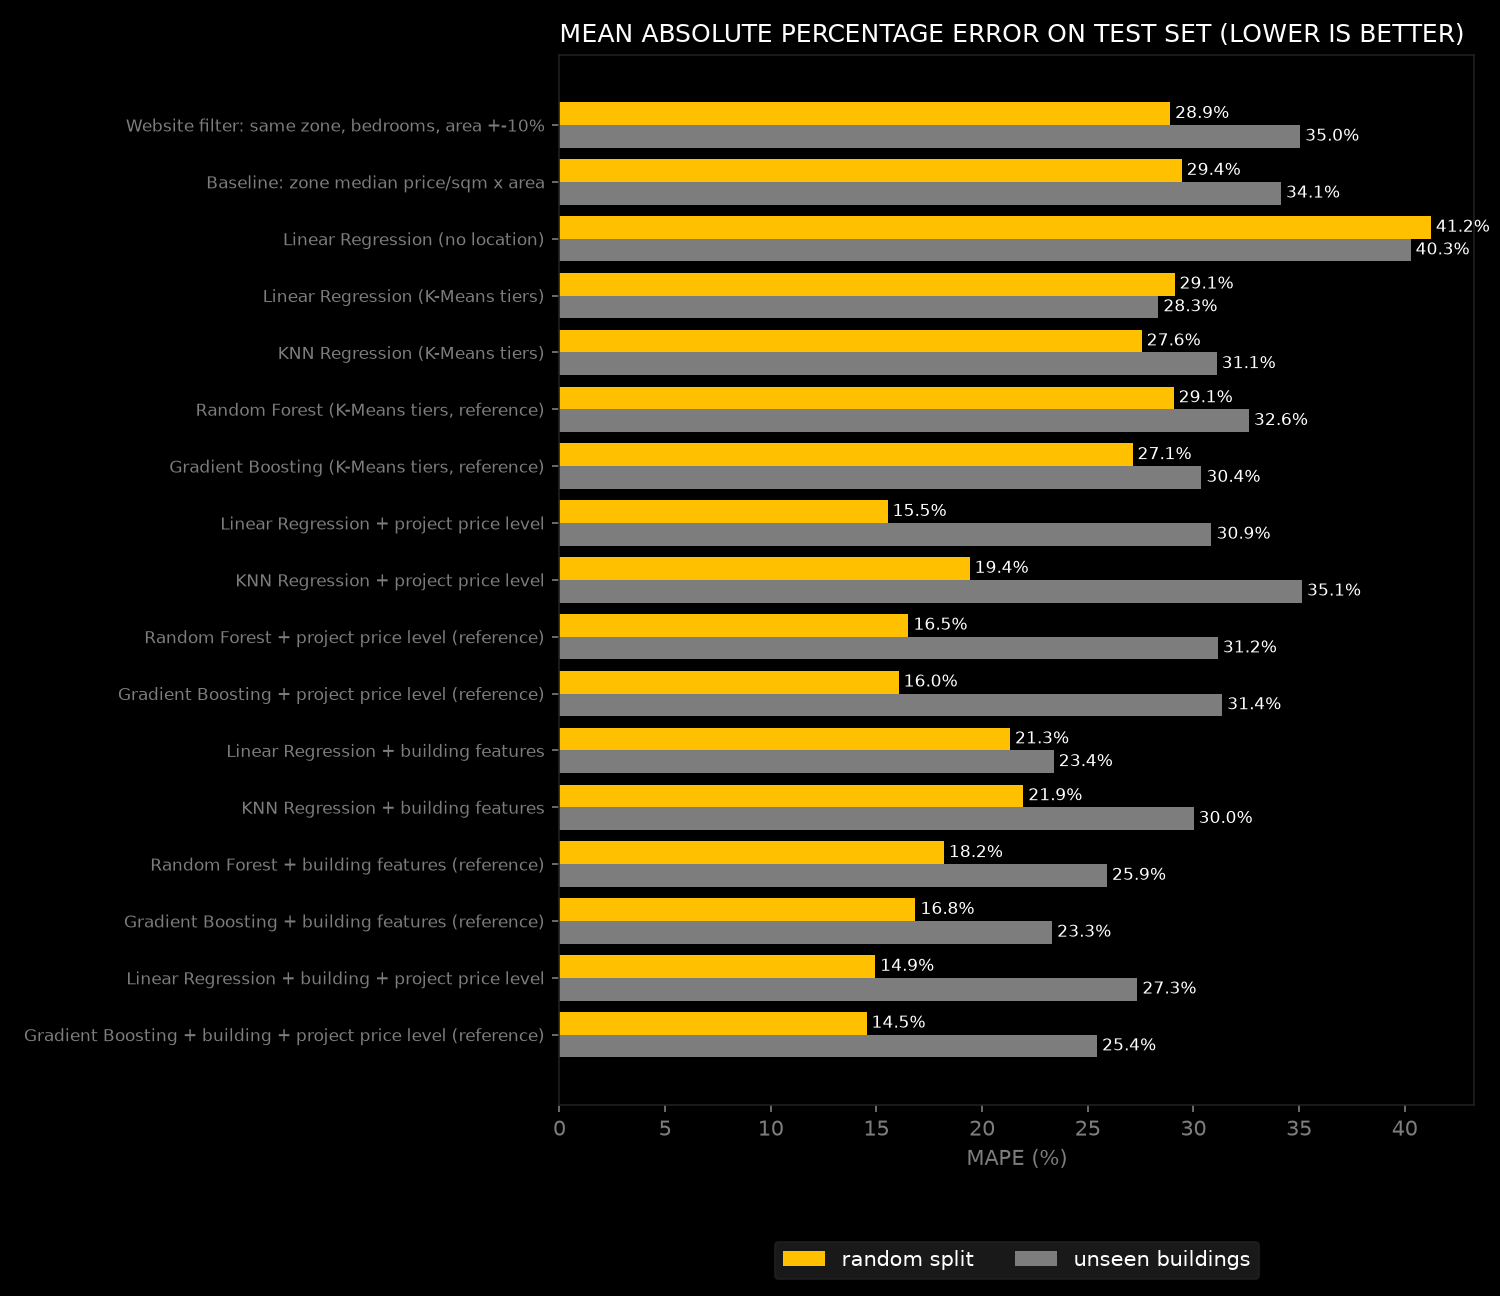
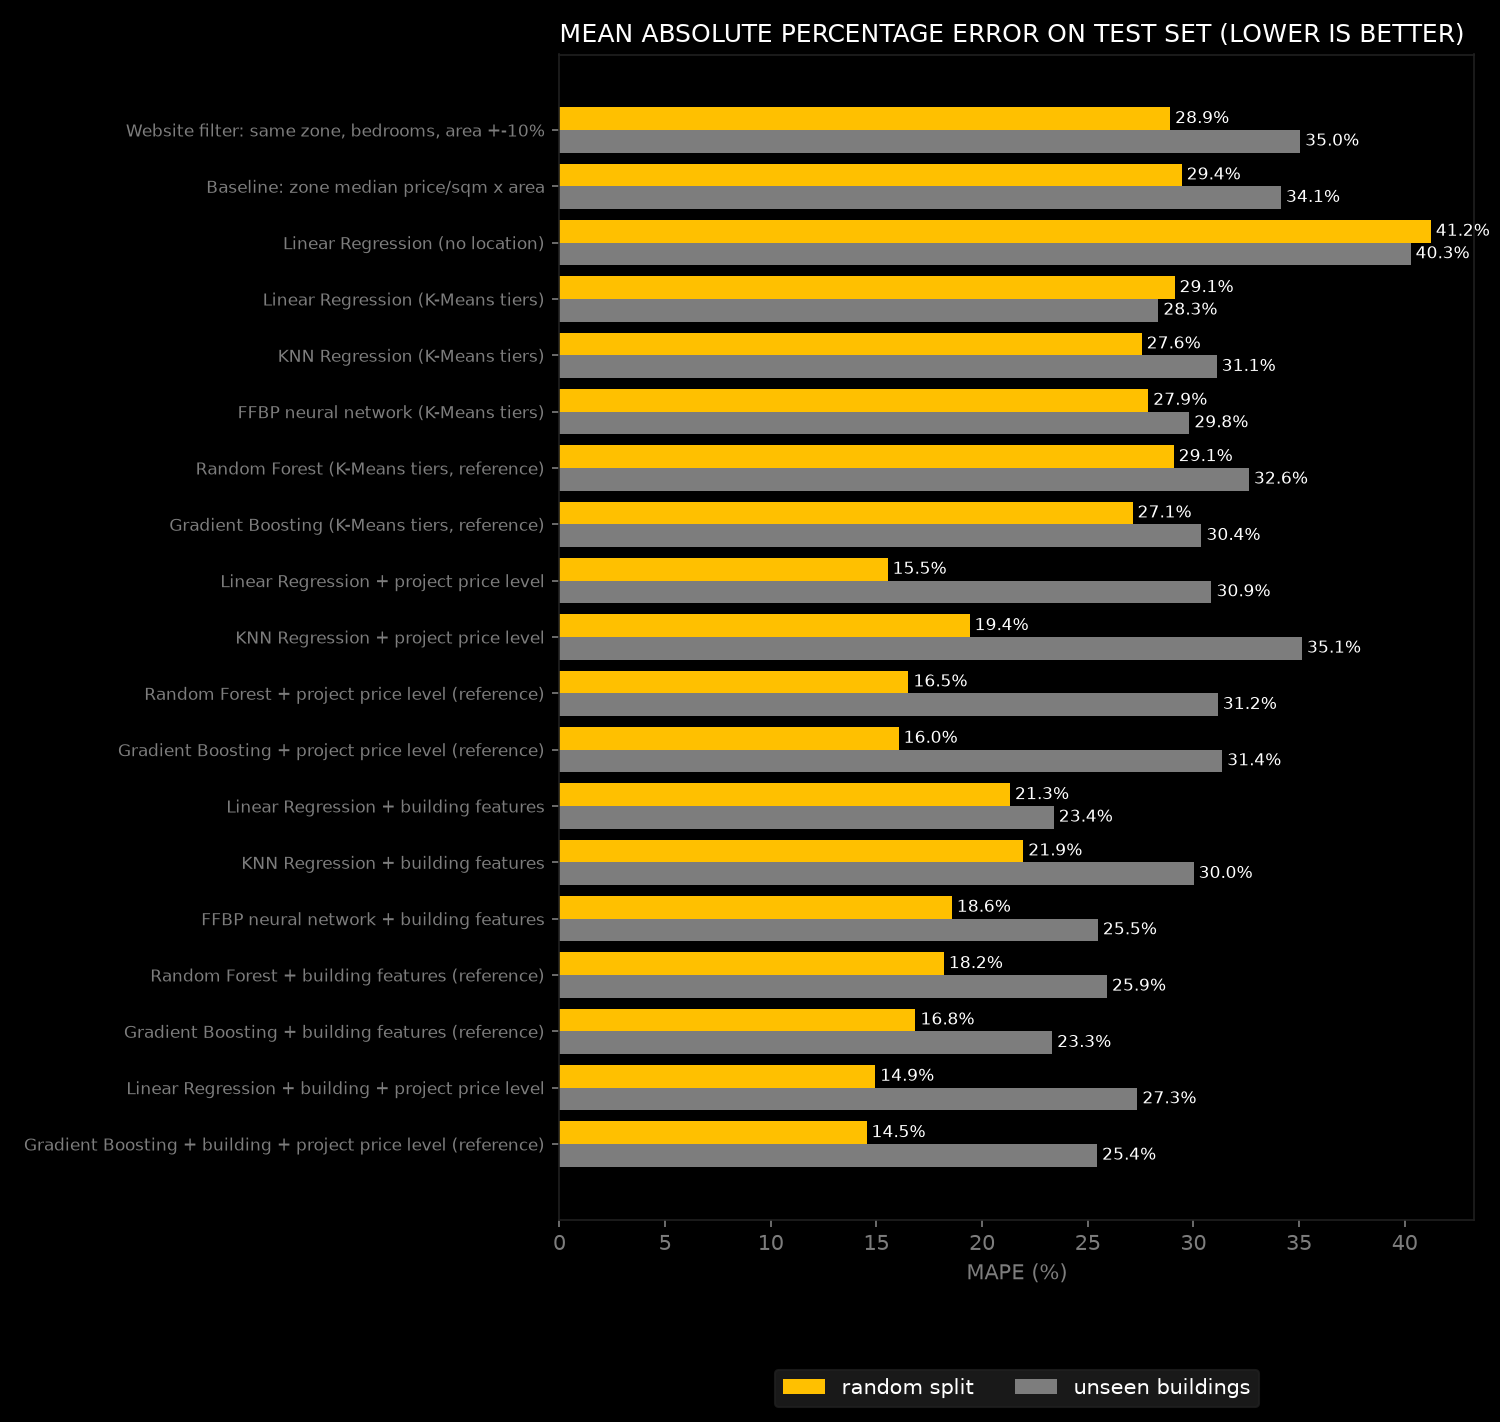
Compare FFBP with the other models on both splits
Hidden size and epochs are chosen by 5-fold CV on training data. With
building data FFBP reaches 18.6% MAPE (random) and 25.5% (unseen buildings),
behind Linear Regression on unseen buildings.

diff --git a/src/evaluate/run.py b/src/evaluate/run.py
@@ -41,6 +41,7 @@ from src.features.build import (
     split_by_project,
     split_random,
 )
+from src.models import ffbp
 from src.models import linear_regression as lr
 from src.models.knn_regression import knn_predict
 
@@ -60,6 +61,7 @@ LEARNING_FRACTIONS = [0.1, 0.25, 0.5, 0.75, 1.0]
 FILTER_AREA_TOLERANCE = 0.10
 METRICS = ["euclidean", "manhattan"]
 WEIGHTS = ["uniform", "distance"]
+FFBP_SETTINGS = [{"H": H, "epochs": epochs} for H in (4, 8, 16) for epochs in (3000, 10000)]
 GOLD = "#FFC000"
 WHITE = "#FFFFFF"
 ASH = "#7D7D7D"
@@ -70,6 +72,8 @@ MAIN_KNN = "KNN Regression (K-Means tiers)"
 PROJECT_LR = "Linear Regression + project price level"
 BUILDING_LR = "Linear Regression + building features"
 BUILDING_KNN = "KNN Regression + building features"
+MAIN_FFBP = "FFBP neural network (K-Means tiers)"
+BUILDING_FFBP = "FFBP neural network + building features"
 
 
 def price_metrics(actual: np.ndarray, predicted: np.ndarray) -> dict[str, float]:
@@ -161,6 +165,46 @@ class FittedKnn:
         return np.exp(knn_predict(self.X, self.y, self.scaler.transform(features), self.k, self.metric, self.weight))
 
 
+@dataclass
+class FittedFfbp:
+    """Neural network on standardised features and standardised log price. Hidden size and
+    number of epochs are chosen by 5-fold cross-validation on the training data."""
+
+    W0: np.ndarray
+    W1: np.ndarray
+    scaler: Standardizer
+    y_mean: float
+    y_std: float
+    setting: dict[str, int]
+    cv_mape_pct: float
+
+    @staticmethod
+    def train(features: np.ndarray, log_price: np.ndarray, setting: dict[str, int]) -> tuple[np.ndarray, np.ndarray, Standardizer, float, float]:
+        scaler = Standardizer.fit(features)
+        y_mean, y_std = float(log_price.mean()), float(log_price.std())
+        W0, W1 = ffbp.ffbp(scaler.transform(features), (log_price - y_mean) / y_std, H=setting["H"],
+                           epochs=setting["epochs"], seed=SEED)
+        return W0, W1, scaler, y_mean, y_std
+
+    @classmethod
+    def fit(cls, features: np.ndarray, log_price: np.ndarray) -> FittedFfbp:
+        folds = list(KFold(n_splits=CV_FOLDS, shuffle=True, random_state=SEED).split(features))
+        scores = []
+        for setting in FFBP_SETTINGS:
+            fold_errors = []
+            for train_index, valid_index in folds:
+                W0, W1, scaler, y_mean, y_std = cls.train(features[train_index], log_price[train_index], setting)
+                predicted = np.exp(ffbp.predict(scaler.transform(features[valid_index]), W0, W1) * y_std + y_mean)
+                actual = np.exp(log_price[valid_index])
+                fold_errors.append(100 * np.mean(np.abs(predicted - actual) / actual))
+            scores.append((float(np.mean(fold_errors)), setting))
+        cv_mape, setting = min(scores, key=lambda score: score[0])
+        return cls(*cls.train(features, log_price, setting), setting=setting, cv_mape_pct=cv_mape)
+
+    def predict(self, features: np.ndarray) -> np.ndarray:
+        return np.exp(ffbp.predict(self.scaler.transform(features), self.W0, self.W1) * self.y_std + self.y_mean)
+
+
 def best_zone_clustering(train: pd.DataFrame) -> tuple[ZoneClustering, list[dict[str, object]]]:
     candidates = [choose_zone_clustering(train, metric) for metric in METRICS]
     rows = []
@@ -213,6 +257,8 @@ def evaluate_split(train: pd.DataFrame, test: pd.DataFrame) -> dict[str, object]
     forest_building = RandomForestRegressor(n_estimators=300, random_state=SEED, n_jobs=-1).fit(xb_train, y_train_log)
     boosting_building = HistGradientBoostingRegressor(random_state=SEED).fit(xb_train, y_train_log)
     boosting_building_project = HistGradientBoostingRegressor(random_state=SEED).fit(xbp_train, y_train_log)
+    network = FittedFfbp.fit(x_train, y_train_log)
+    network_building = FittedFfbp.fit(xb_train, y_train_log)
     boosting = HistGradientBoostingRegressor(random_state=SEED).fit(x_train, y_train_log)
     boosting_project = HistGradientBoostingRegressor(random_state=SEED).fit(xp_train, y_train_log)
     forest = RandomForestRegressor(n_estimators=300, random_state=SEED, n_jobs=-1).fit(x_train, y_train_log)
@@ -226,6 +272,7 @@ def evaluate_split(train: pd.DataFrame, test: pd.DataFrame) -> dict[str, object]
         "Linear Regression (no location)": np.exp(lr.predict(x_test_no_location, W_no_location)),
         MAIN_LR: np.exp(lr.predict(x_test, W)),
         MAIN_KNN: knn.predict(x_test),
+        MAIN_FFBP: network.predict(x_test),
         "Random Forest (K-Means tiers, reference)": np.exp(forest.predict(x_test)),
         "Gradient Boosting (K-Means tiers, reference)": np.exp(boosting.predict(x_test)),
         PROJECT_LR: np.exp(lr.predict(xp_test, W_project)),
@@ -234,6 +281,7 @@ def evaluate_split(train: pd.DataFrame, test: pd.DataFrame) -> dict[str, object]
         "Gradient Boosting + project price level (reference)": np.exp(boosting_project.predict(xp_test)),
         BUILDING_LR: np.exp(lr.predict(xb_test, W_building)),
         BUILDING_KNN: knn_building.predict(xb_test),
+        BUILDING_FFBP: network_building.predict(xb_test),
         "Random Forest + building features (reference)": np.exp(forest_building.predict(xb_test)),
         "Gradient Boosting + building features (reference)": np.exp(boosting_building.predict(xb_test)),
         "Linear Regression + building + project price level": np.exp(lr.predict(xbp_test, W_building_project)),
@@ -248,6 +296,8 @@ def evaluate_split(train: pd.DataFrame, test: pd.DataFrame) -> dict[str, object]
         "train": train, "test": test, "clustering": clustering, "levels": levels,
         "W": W, "W_project": W_project, "knn": knn, "knn_project": knn_project,
         "W_building": W_building, "W_building_project": W_building_project, "knn_building": knn_building,
+        "ffbp": {name: {"hidden": model.setting["H"], "epochs": model.setting["epochs"], "cv_mape_pct": model.cv_mape_pct}
+                 for name, model in ((MAIN_FFBP, network), (BUILDING_FFBP, network_building))},
         "buildings": buildings, "building_feature_names": list(xb_train_frame.columns),
         "building_project_feature_names": list(xbp_train_frame.columns),
         "residual_std_log_building": float(np.std(y_train_log - lr.predict(xb_train, W_building))),
@@ -444,6 +494,8 @@ def main() -> None:
             "knn_random_split": main_run["knn_experiment"],
             "knn_project_split": project_run["knn_experiment"],
         },
+        "ffbp_random_split": main_run["ffbp"],
+        "ffbp_project_split": project_run["ffbp"],
         "features": main_run["feature_names"],
         "building_features": main_run["building_feature_names"],
         "building_linear_regression": {
